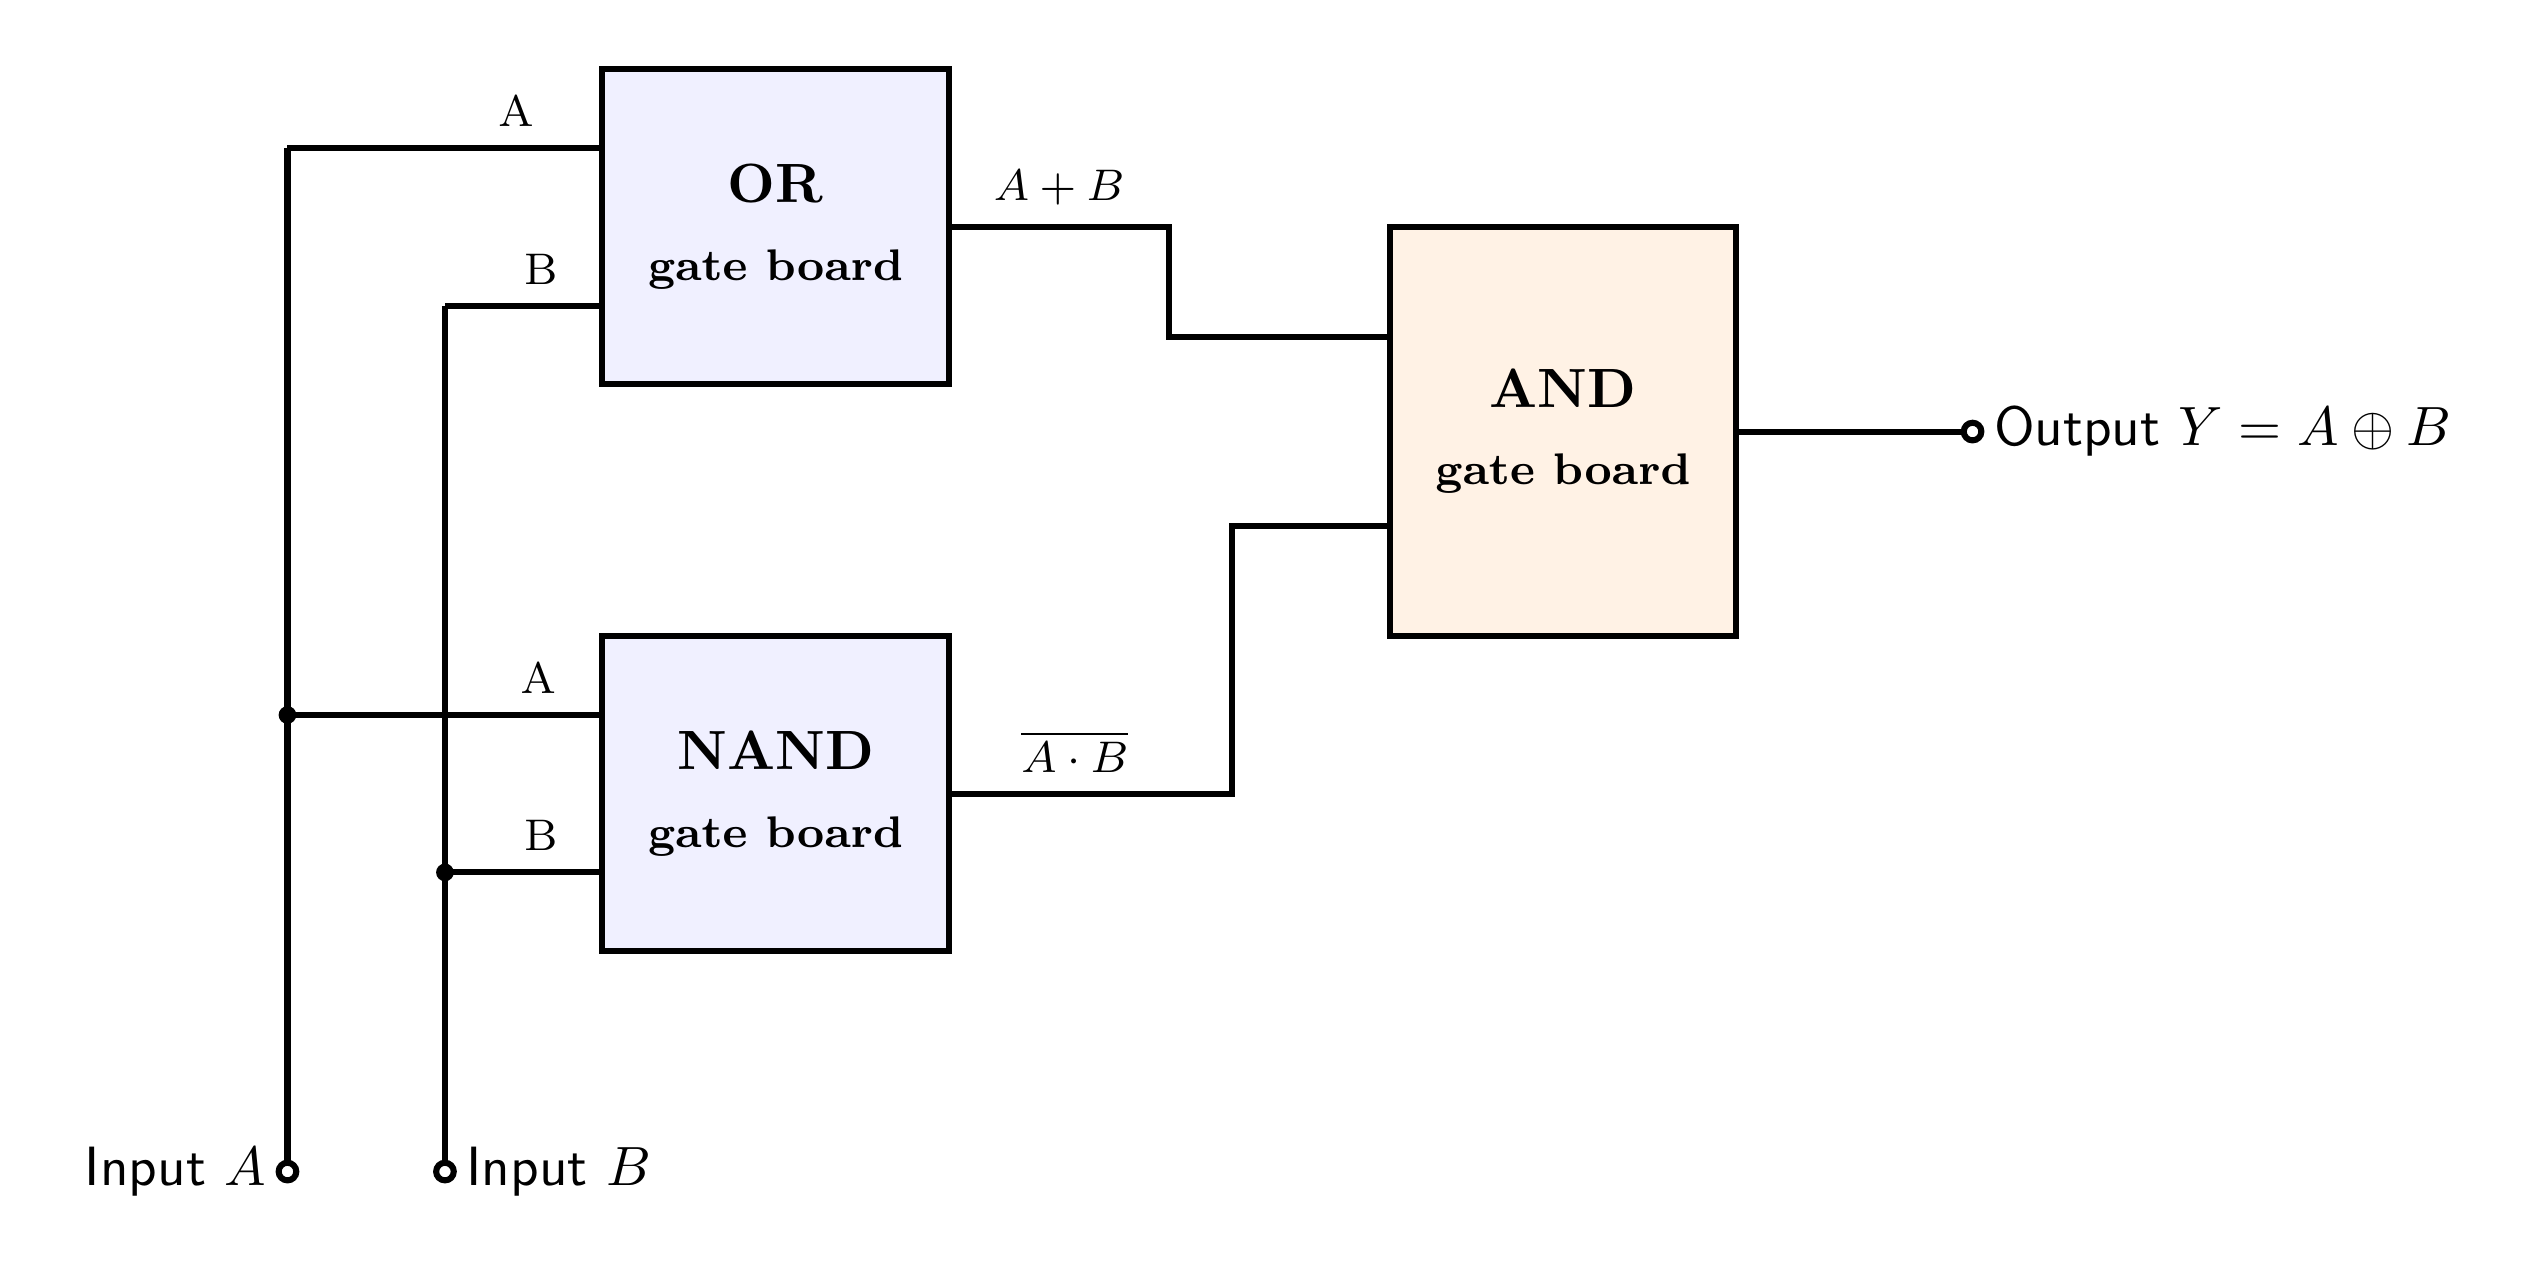
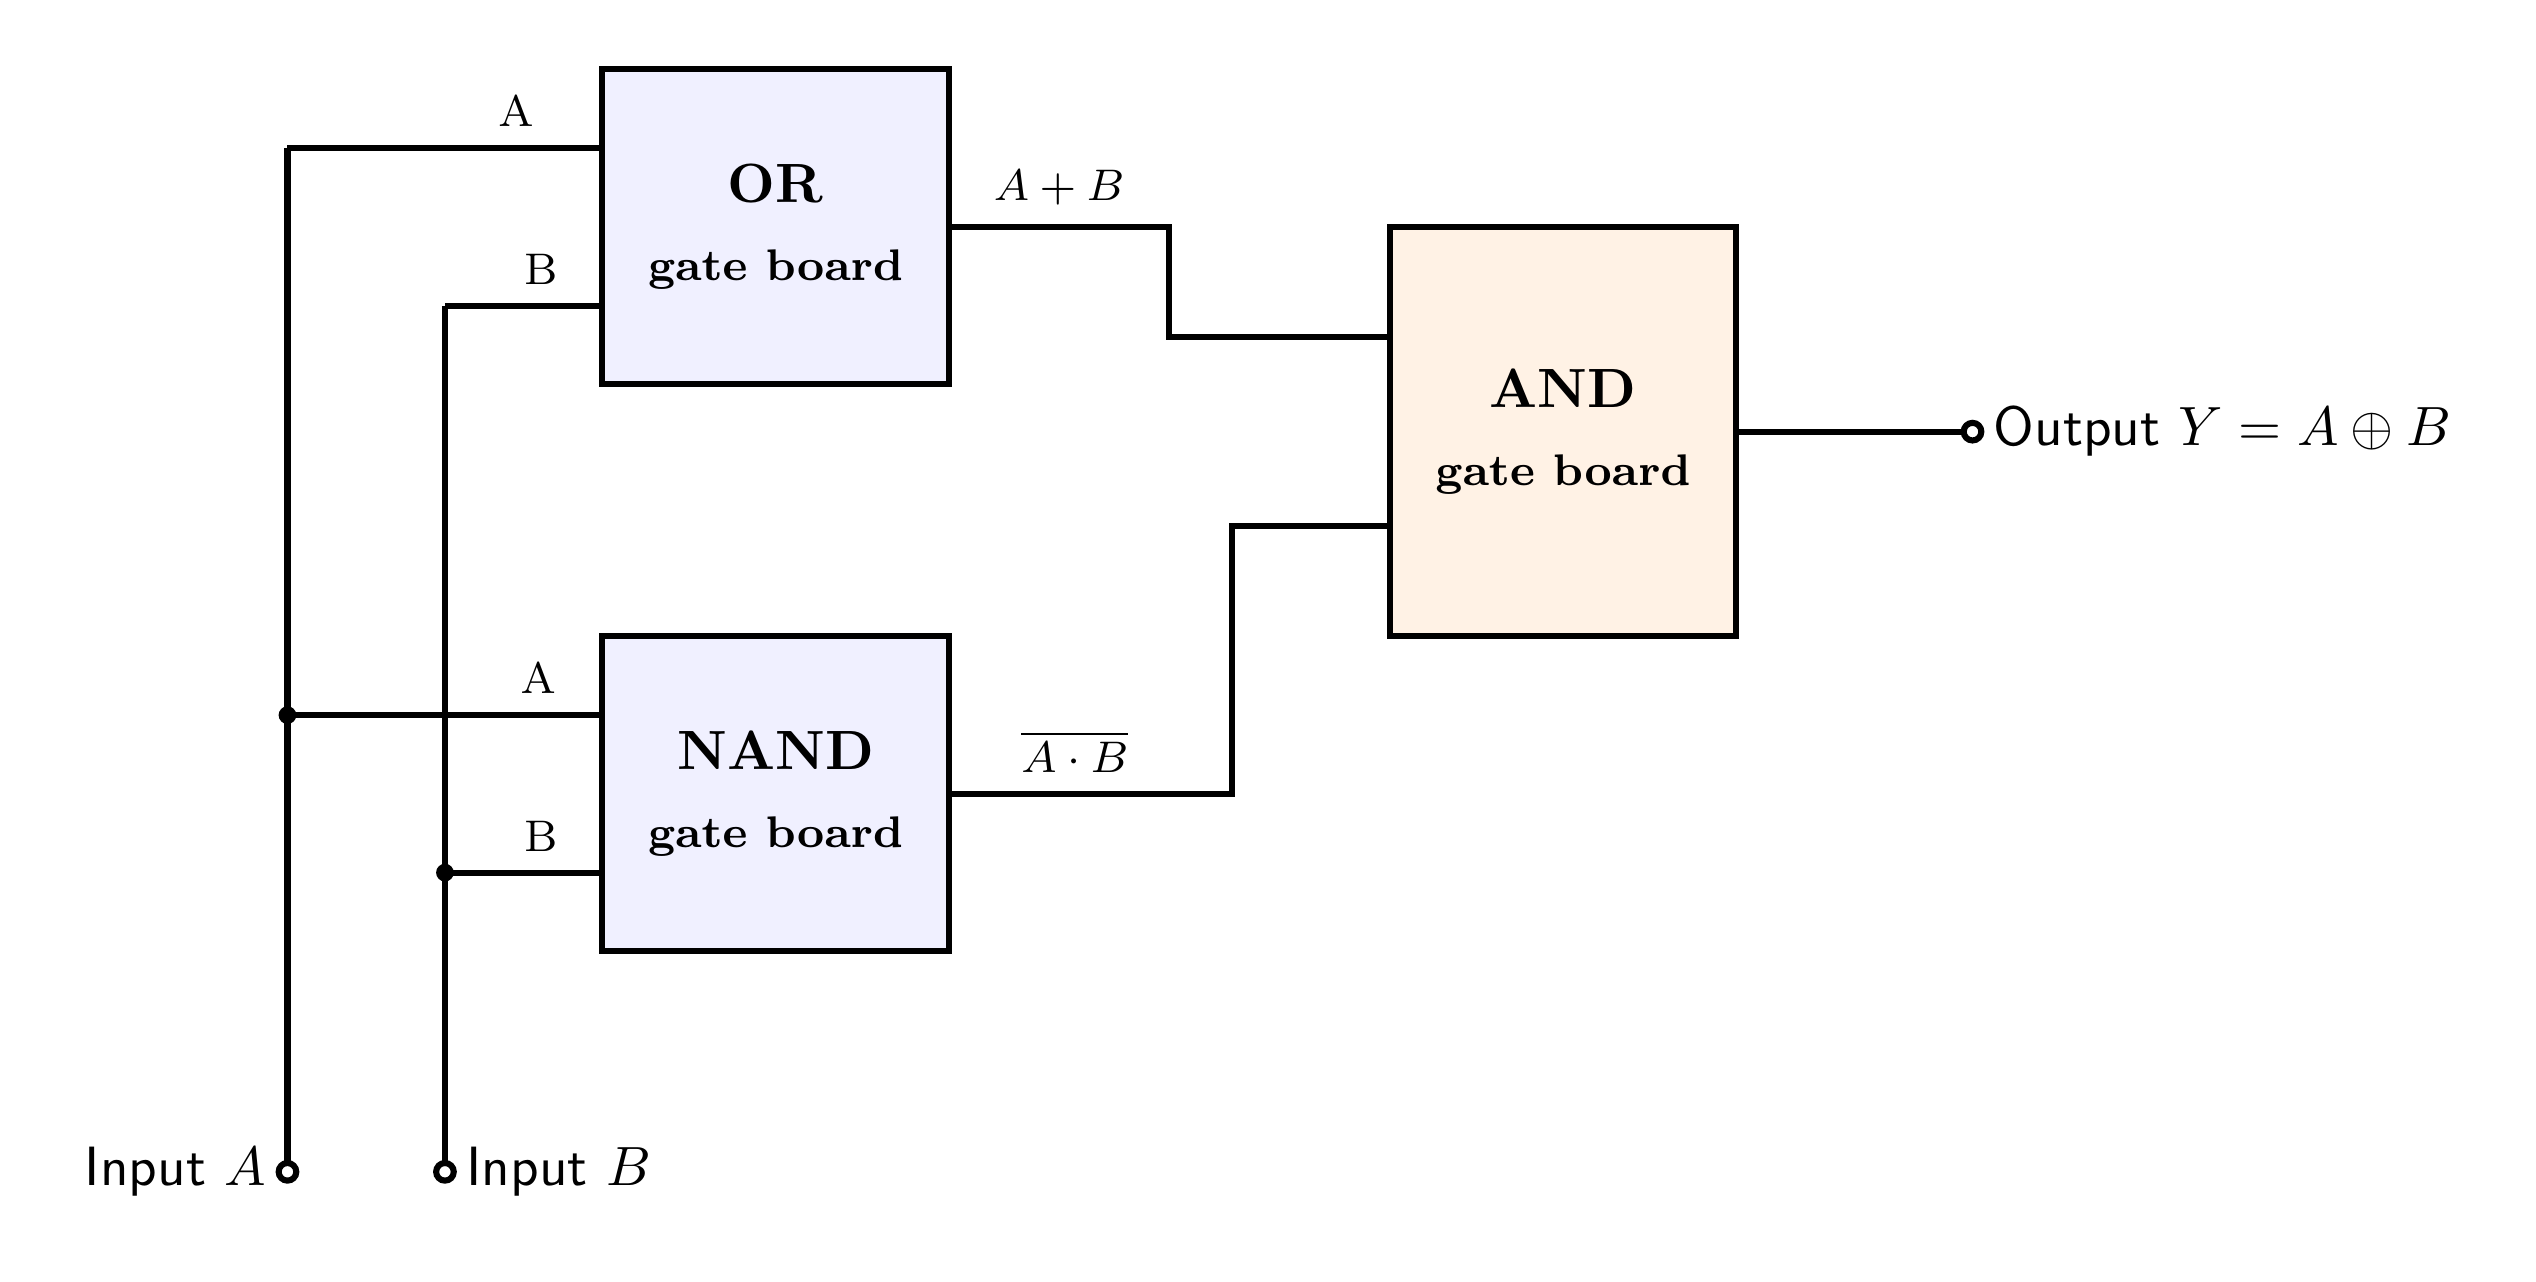
fix the designs

Changed region(s): [[0.9345, 0.3123, 0.9657, 0.3435], [0.7788, 0.3123, 0.8099, 0.3435]]

diff --git a/circuit.tex b/circuit.tex
@@ -21,7 +21,7 @@
 }}
 \begin{document}
 \begin{circuitikz}[line width=1.1pt, scale=1.15, transform shape]
-  \ctikzset{tripoles/thickness=1, bipoles/thickness=1, logic ports/thickness=1.1}
+  \ctikzset{tripoles/thickness=1, bipoles/thickness=1, logic ports/thickness=1}
 
   % ---------- gates ----------
   \node[or port]   (g1) at (4,3.6) {};

diff --git a/symbol.tex b/symbol.tex
@@ -4,7 +4,7 @@
 \usepackage{circuitikz}
 \begin{document}
 \begin{circuitikz}[line width=1.1pt, scale=1.4, transform shape]
-  \ctikzset{tripoles/thickness=1, bipoles/thickness=1, logic ports/thickness=1.1}
+  \ctikzset{tripoles/thickness=1, bipoles/thickness=1, logic ports/thickness=1}
   \node[xor port] (g) {};
   \draw (g.in 1) -- ++(-1,0) node[left]{$A$};
   \draw (g.in 2) -- ++(-1,0) node[left]{$B$};

diff --git a/wiring.tex b/wiring.tex
@@ -22,7 +22,7 @@
 }}
 \begin{document}
 \begin{tikzpicture}[line width=1.1pt, font=\sffamily]
-  \ctikzset{tripoles/thickness=1, bipoles/thickness=1, logic ports/thickness=1.1}
+  \ctikzset{tripoles/thickness=1, bipoles/thickness=1, logic ports/thickness=1}
 
   % ---------- the three sub-gate boards ----------
   \draw[fill=blue!6] (3.0,4.3) rectangle (5.2,6.3);